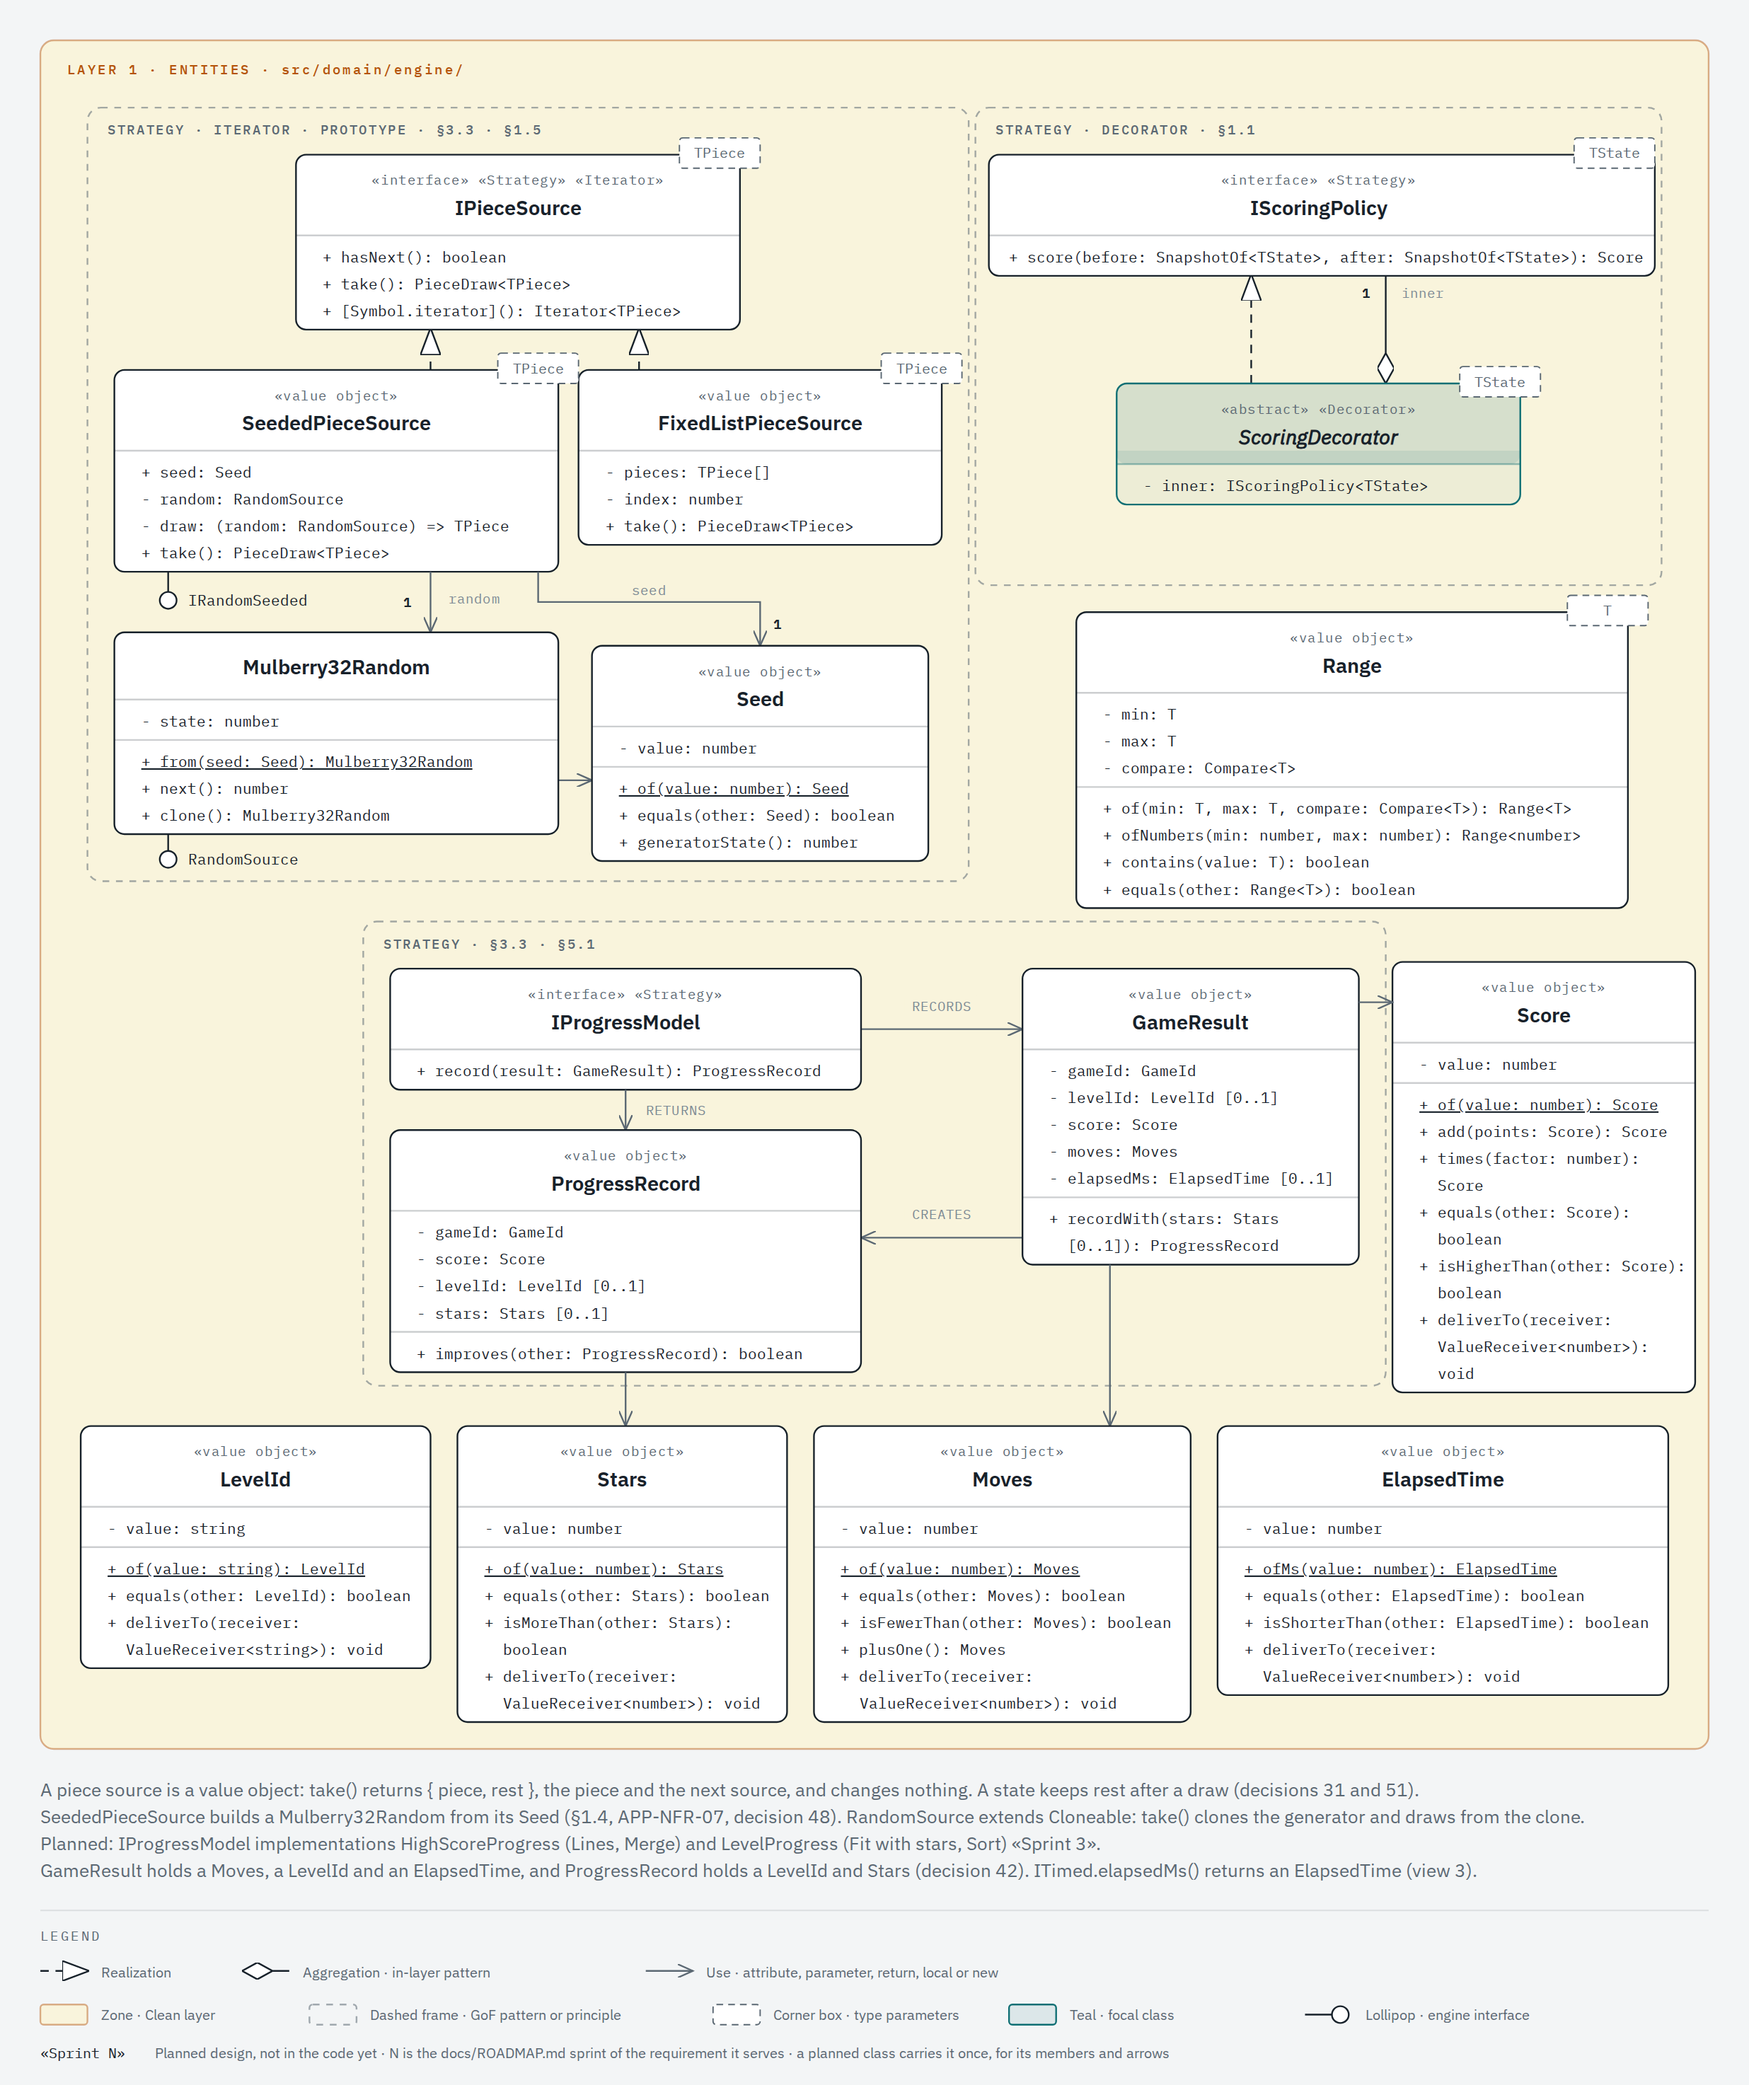
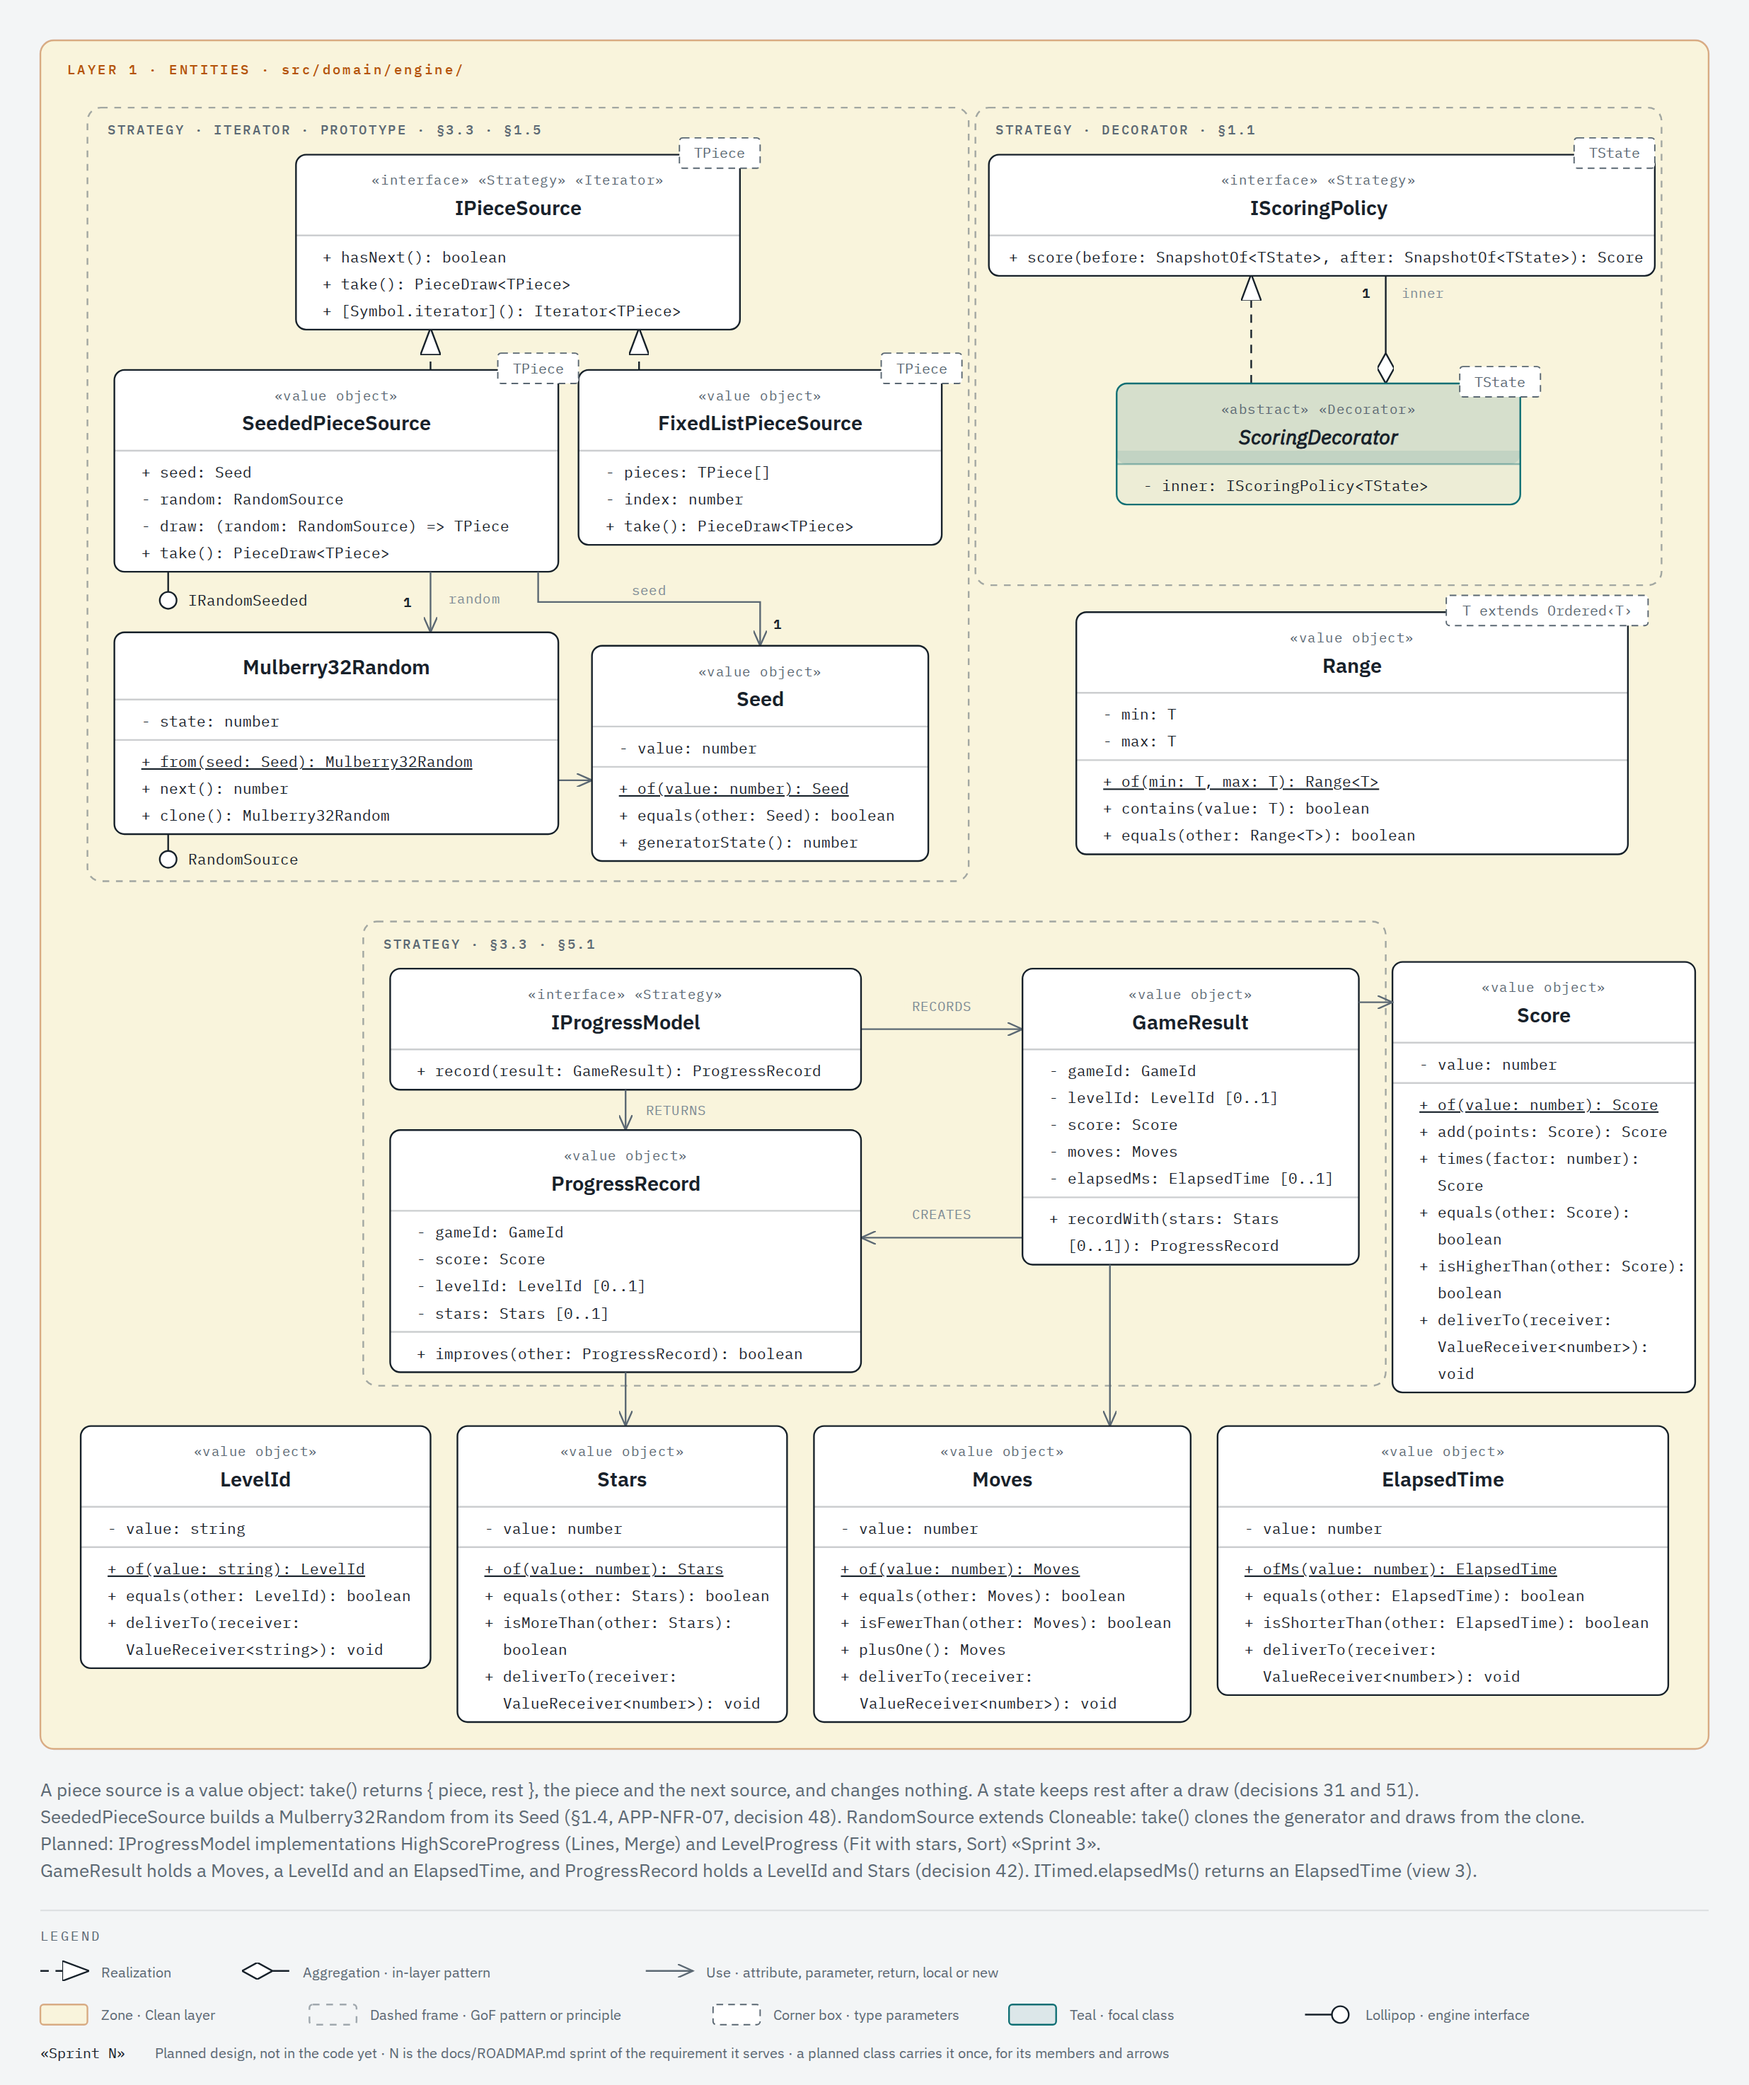
docs(architecture): draw the ordered Range in engine-4-sources
The PNG is exported again.

Refs #239

Changed region(s): [[0.5918, 0.3434, 0.9345, 0.4371], [0.8099, 0.281, 0.9033, 0.3122]]

diff --git a/docs/architecture/classes/views/engine-4-sources.html b/docs/architecture/classes/views/engine-4-sources.html
@@ -78,14 +78,16 @@
           next source, SeededPieceSource keeping the Mulberry32Random random source that it builds
           from its seed and clones before each draw, the IScoringPolicy strategy wrapped by the
           abstract ScoringDecorator, and the IProgressModel strategy that records a GameResult and
-          returns a ProgressRecord. Range is the value object of a closed interval. Seed is the
-          value object of a seed: it checks its range once, SeededPieceSource holds one, and
-          Mulberry32Random starts from one. Score is the value object of a score: IScoringPolicy
-          returns one, and GameResult and ProgressRecord hold one. Moves, ElapsedTime, Stars and
-          LevelId are the value objects of the counters: GameResult holds a Moves, a LevelId and an
-          ElapsedTime, and ProgressRecord holds a LevelId and Stars. Their fields are private:
-          GameResult creates the ProgressRecord of a progress model with recordWith(), and
-          ProgressRecord tells with improves() whether it is better than the stored record.
+          returns a ProgressRecord. Range is the value object of a closed interval over a value
+          object T that implements Ordered, so it orders its bounds with isBefore() and with no
+          number. Seed is the value object of a seed: it checks its own number once,
+          SeededPieceSource holds one, and Mulberry32Random starts from one. Score is the value
+          object of a score: IScoringPolicy returns one, and GameResult and ProgressRecord hold one.
+          Moves, ElapsedTime, Stars and LevelId are the value objects of the counters: GameResult
+          holds a Moves, a LevelId and an ElapsedTime, and ProgressRecord holds a LevelId and Stars.
+          Their fields are private: GameResult creates the ProgressRecord of a progress model with
+          recordWith(), and ProgressRecord tells with improves() whether it is better than the
+          stored record.
         </desc>
         <defs>
           <marker
@@ -1309,7 +1311,7 @@
           x="640"
           y="364"
           width="328"
-          height="176"
+          height="144"
           rx="6"
           fill="#ffffff"
           stroke="#17212a"
@@ -1344,27 +1346,28 @@
         <text x="656" y="444" fill="#17212a" font-size="9" font-family="'IBM Plex Mono', monospace">
           - max: T
         </text>
-        <text x="656" y="460" fill="#17212a" font-size="9" font-family="'IBM Plex Mono', monospace">
-          - compare: Compare&lt;T&gt;
+        <line x1="640" y1="452" x2="968" y2="452" stroke="rgba(23,33,42,0.22)" stroke-width="1" />
+        <text
+          x="656"
+          y="468"
+          fill="#17212a"
+          font-size="9"
+          font-family="'IBM Plex Mono', monospace"
+          text-decoration="underline"
+        >
+          + of(min: T, max: T): Range&lt;T&gt;
         </text>
-        <line x1="640" y1="468" x2="968" y2="468" stroke="rgba(23,33,42,0.22)" stroke-width="1" />
         <text x="656" y="484" fill="#17212a" font-size="9" font-family="'IBM Plex Mono', monospace">
-          + of(min: T, max: T, compare: Compare&lt;T&gt;): Range&lt;T&gt;
-        </text>
-        <text x="656" y="500" fill="#17212a" font-size="9" font-family="'IBM Plex Mono', monospace">
-          + ofNumbers(min: number, max: number): Range&lt;number&gt;
-        </text>
-        <text x="656" y="516" fill="#17212a" font-size="9" font-family="'IBM Plex Mono', monospace">
           + contains(value: T): boolean
         </text>
-        <text x="656" y="532" fill="#17212a" font-size="9" font-family="'IBM Plex Mono', monospace">
+        <text x="656" y="500" fill="#17212a" font-size="9" font-family="'IBM Plex Mono', monospace">
           + equals(other: Range&lt;T&gt;): boolean
         </text>
         <!-- UML template boxes: type parameters on the top-right corner -->
         <rect
-          x="932"
+          x="860"
           y="354"
-          width="48"
+          width="120"
           height="18"
           rx="2"
           fill="#ffffff"
@@ -1373,14 +1376,14 @@
           stroke-dasharray="4,3"
         />
         <text
-          x="956"
+          x="920"
           y="366"
           fill="#5b6873"
           font-size="8.5"
           font-family="'IBM Plex Mono', monospace"
           text-anchor="middle"
         >
-          T
+          T extends Ordered‹T›
         </text>
         <rect
           x="404"
